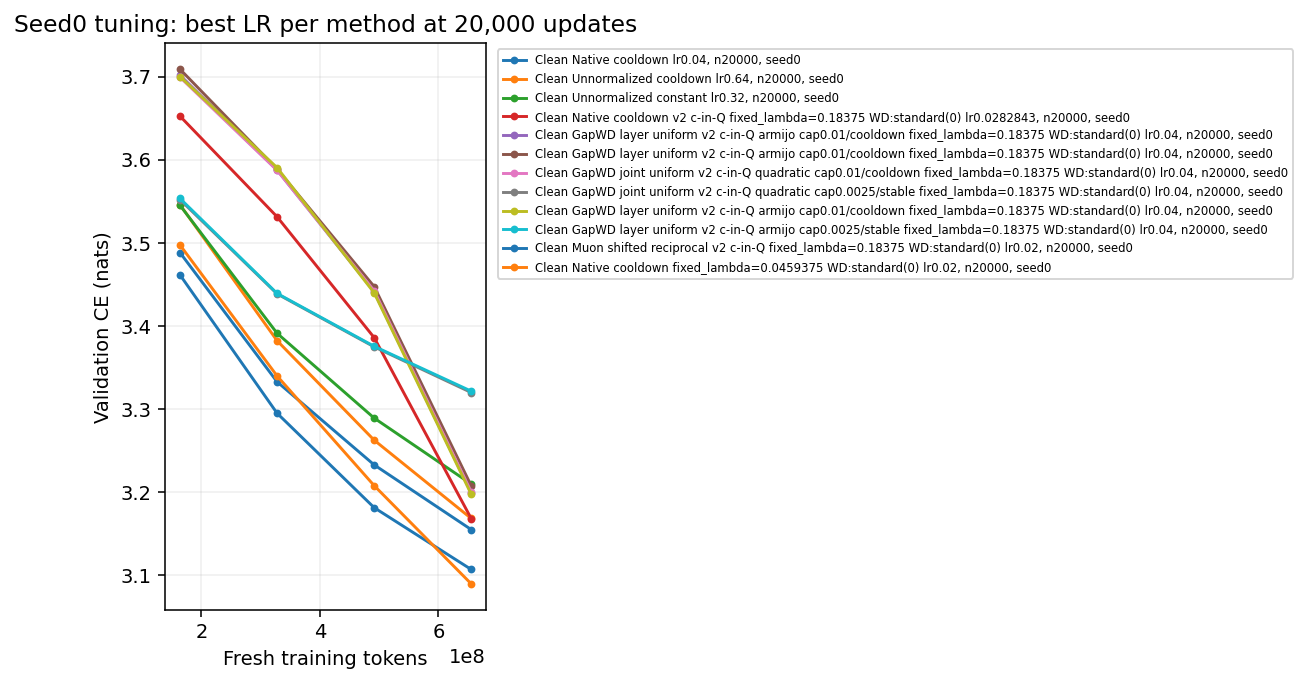
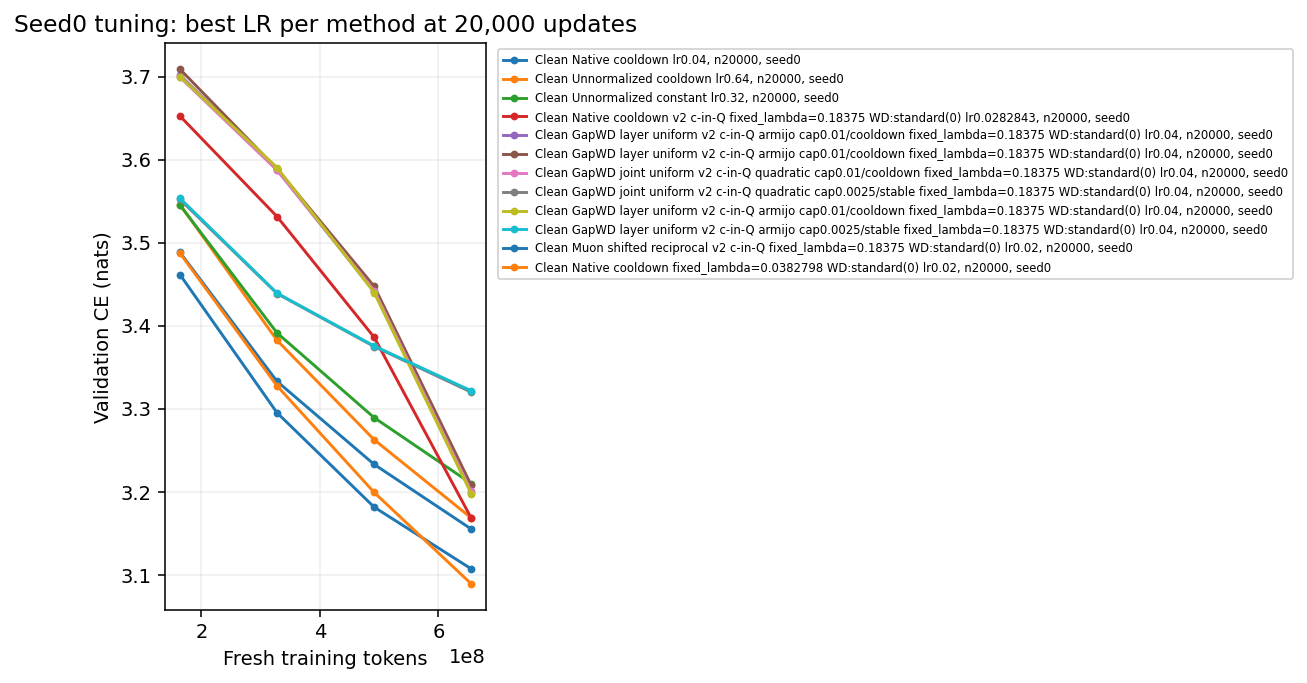
Update live Muon experiment results

diff --git a/research/unnormalized_muon/RESULTS.md b/research/unnormalized_muon/RESULTS.md
@@ -75,6 +75,7 @@ One B300 per job. CE is token cross-entropy (nats); lower is better. Rows with d
 | um-earlyalloc-confirm-neutral-s71 | Clean Native cooldown fixed_lambda=0.0382798 WD:standard(0) | 20000 | 71 | 0.02 | 3.086275 | 0.935689 | 3.128008 | 700.68 |
 | um-earlyalloc-confirm-neutral-s72 | Clean Native cooldown fixed_lambda=0.0382798 WD:standard(0) | 20000 | 72 | 0.02 | 3.098150 | 0.939295 | 3.139013 | 712.74 |
 | um-earlyalloc-match-seed0 | Clean Native cooldown fixed_lambda=0.0551271 WD:standard(0) | 20000 | 0 | 0.02 | 3.091718 | 0.937353 | — | 749.39 |
+| um-earlyalloc-neutral-seed0 | Clean Native cooldown fixed_lambda=0.0382798 WD:standard(0) | 20000 | 0 | 0.02 | 3.089156 | 0.936554 | — | 729.26 |
 | um-earlyalloc-screen-k1 | Clean Native cooldown fixed_lambda=0.0459375 WD:standard(0) | 20000 | 0 | 0.02 | 3.090448 | 0.936955 | — | 783.18 |
 | um-earlyalloc-screen-k1p5 | Clean Native cooldown fixed_lambda=0.0459375 WD:standard(0) | 20000 | 0 | 0.02 | 3.089904 | 0.936790 | — | 701.43 |
 | um-earlyalloc-screen-k2 | Clean Native cooldown fixed_lambda=0.0459375 WD:standard(0) | 20000 | 0 | 0.02 | 3.089891 | 0.936781 | — | 790.30 |
@@ -298,7 +299,7 @@ Review of um-fw-diagnostic-001: Compiled training f0 compared against functional
 
 Review of um-earlyalloc-confirm-history-check-001: Invalid short check: horizon64 gives cooldown join22 before warmup40. Non-time runs intentionally ignore reference_updates override. early_reciprocal asserts warmup<join on first measured step. Fix check002 horizon128/join45 and fail-fast launcher validation; full20k arms unaffected.
 
-Conservative charged/reserved total: 45.3667 / 50 B300 GPU-hours. Includes prior smoke/failed attempts and current maximum-duration reservations. Six-slot central queue; one B300 per run.
+Conservative charged/reserved total: 45.1470 / 50 B300 GPU-hours. Includes prior smoke/failed attempts and current maximum-duration reservations. Six-slot central queue; one B300 per run.
 
 CLEAN geometry disables row equilibration and NorMuon. Original clean runs use zero matrix decay; new WD runs explicitly label standard or cautious decay and their CLI coefficient. Same five Polar Express steps and Frobenius correction; scale by the per-matrix nonnegative FP32 inner product of the native Nesterov input with the NS/Frobenius direction. Shape scaling occurs once outside the scalar. Legacy rows retain production extras and must be compared separately. Constant schedule changes only matrix LR; auxiliary schedules and momentum remain matched.
 
